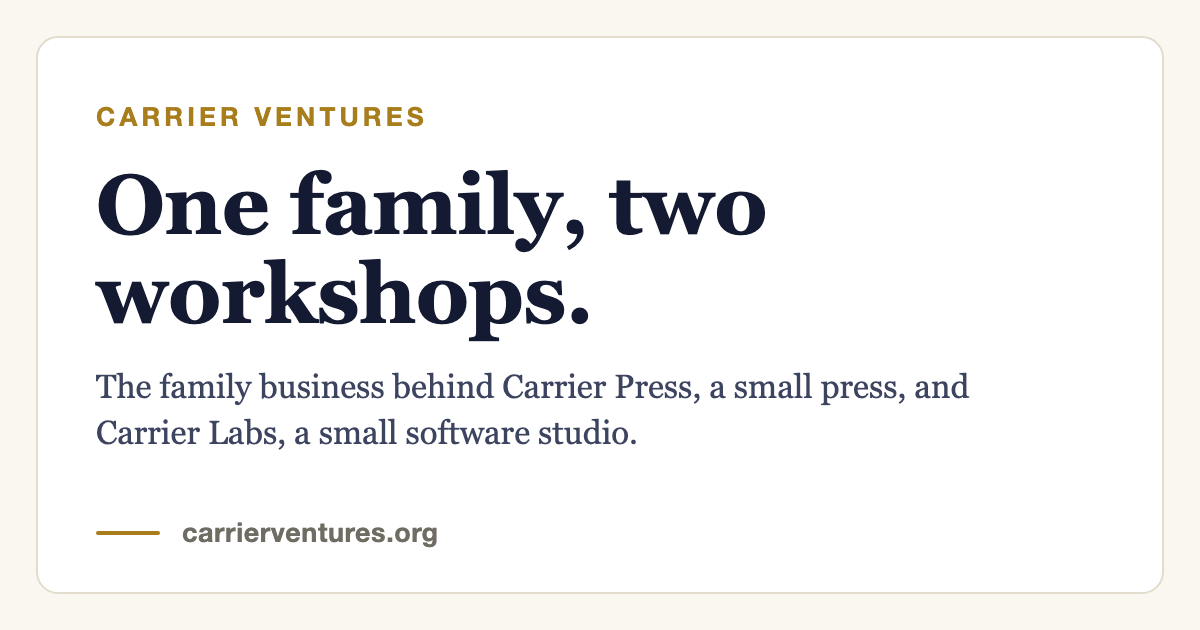
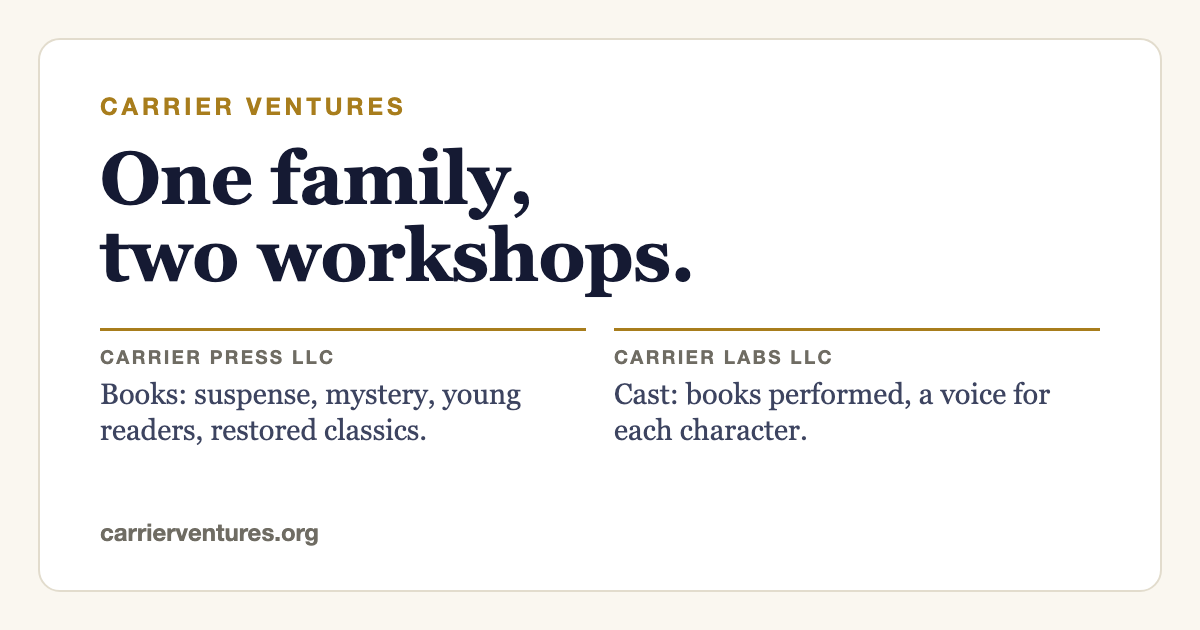
Share card: names both LLCs and what each makes; source kept in _og/ (author 2026-11-21)
Claude-Session: 7c9c2d30-6353-423d-a74d-9bf61e730dc6

diff --git a/index.html b/index.html
@@ -2,7 +2,7 @@
 <html lang="en"><head><meta charset="utf-8"><meta name="viewport" content="width=device-width,initial-scale=1">
 <title>Carrier Ventures: Carrier Press Books and Cast by Carrier Labs</title><meta name="description" content="Carrier Ventures is the family business behind Carrier Press, which publishes novels, books for young readers and restored classics, and Carrier Labs, which makes Cast, books performed with a voice for each character.">
 <link rel="canonical" href="https://carrierventures.org/"><meta property="og:title" content="Carrier Ventures: Carrier Press Books and Cast by Carrier Labs"><meta property="og:description" content="The family business behind Carrier Press, which publishes books, and Carrier Labs, which makes Cast, books performed with a voice for each character.">
-<meta property="og:url" content="https://carrierventures.org/"><meta property="og:type" content="website"><meta property="og:image" content="https://carrierventures.org/og-image.png"><meta property="og:image:width" content="1200"><meta property="og:image:height" content="630"><meta property="og:image:alt" content="Carrier Ventures: One family, two workshops."><meta name="twitter:card" content="summary_large_image">
+<meta property="og:url" content="https://carrierventures.org/"><meta property="og:type" content="website"><meta property="og:image" content="https://carrierventures.org/og-image.png"><meta property="og:image:width" content="1200"><meta property="og:image:height" content="630"><meta property="og:image:alt" content="Carrier Ventures: One family, two workshops. Carrier Press LLC makes books; Carrier Labs LLC makes Cast, books performed with a voice for each character."><meta name="twitter:card" content="summary_large_image">
 <link rel="icon" href="favicon.png" type="image/png"><link rel="stylesheet" href="styles.css">
 <script type="application/ld+json">{"@context": "https://schema.org", "@type": "Organization", "@id": "https://carrierventures.org/#organization", "name": "Carrier Ventures", "url": "https://carrierventures.org/", "image": "https://carrierventures.org/og-image.png", "description": "Carrier Ventures is the family business behind Carrier Press, which publishes books, and Carrier Labs, which makes Cast.", "address": {"@type": "PostalAddress", "addressLocality": "Diamondhead", "addressRegion": "MS", "addressCountry": "US"}, "subOrganization": [{"@type": "Organization", "name": "Carrier Press", "legalName": "Carrier Press LLC", "url": "https://carrierpress.com/"}, {"@type": "Organization", "name": "Carrier Labs", "legalName": "Carrier Labs LLC", "url": "https://carrierlabs.org/"}]}</script>
 <script type="application/ld+json">{"@context": "https://schema.org", "@type": "WebSite", "name": "Carrier Ventures", "url": "https://carrierventures.org/", "publisher": {"@id": "https://carrierventures.org/#organization"}}</script>

diff --git a/_og/card.html b/_og/card.html
@@ -1,0 +1,27 @@
+<!doctype html>
+<!-- Source for ../og-image.png (1200x630). Not served: GitHub Pages skips _ folders.
+     Rebuild: see _og/README.md -->
+<html lang="en"><head><meta charset="utf-8">
+<style>
+:root{--ink:#151a33;--soft:#3d4460;--muted:#6f6c63;--paper:#faf7f0;--card:#fff;--line:#e2dccd;--gold:#a87d1c;
+--serif:Georgia,'Iowan Old Style',serif;--sans:'Helvetica Neue',Helvetica,Arial,sans-serif}
+*{box-sizing:border-box;margin:0}
+html,body{width:1200px;height:630px;background:var(--paper);overflow:hidden}
+.card{position:absolute;inset:38px;background:var(--card);border:2px solid var(--line);border-radius:22px;padding:54px 60px 46px;display:flex;flex-direction:column}
+.eyebrow{font:700 24px/1 var(--sans);letter-spacing:.16em;text-transform:uppercase;color:var(--gold)}
+h1{font:700 74px/1.04 var(--serif);color:var(--ink);margin:22px 0 0;letter-spacing:-.5px}
+.rows{display:grid;grid-template-columns:1fr 1fr;gap:28px;margin-top:34px}
+.row{border-top:3px solid var(--gold);padding-top:16px}
+.row b{display:block;font:700 19px/1 var(--sans);letter-spacing:.12em;text-transform:uppercase;color:var(--muted)}
+.row span{display:block;font:400 29px/1.25 var(--serif);color:var(--soft);margin-top:10px}
+.foot{margin-top:auto;font:700 24px/1 var(--sans);color:var(--muted)}
+</style></head>
+<body><div class="card">
+<div class="eyebrow">Carrier Ventures</div>
+<h1>One family,<br>two workshops.</h1>
+<div class="rows">
+<div class="row"><b>Carrier Press LLC</b><span>Books: suspense, mystery, young readers, restored classics.</span></div>
+<div class="row"><b>Carrier Labs LLC</b><span>Cast: books performed, a voice for each character.</span></div>
+</div>
+<div class="foot">carrierventures.org</div>
+</div></body></html>

diff --git a/_og/README.md b/_og/README.md
@@ -1,0 +1,12 @@
+# Share card source
+
+`card.html` is the source for `../og-image.png` (1200x630, used for og:image and the Twitter card).
+GitHub Pages does not serve folders that start with `_`, so this stays private.
+
+Rebuild after editing `card.html`:
+
+    "/Applications/Google Chrome.app/Contents/MacOS/Google Chrome" --headless=new --disable-gpu \
+      --hide-scrollbars --force-device-scale-factor=1 --window-size=1200,630 \
+      --screenshot=og-image.png "file://$PWD/_og/card.html"
+
+Run from the repo root. Keep it in step with the homepage copy.
